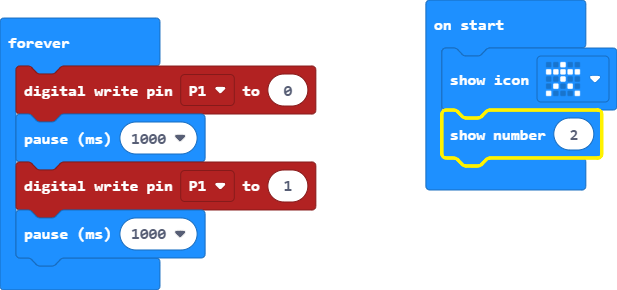
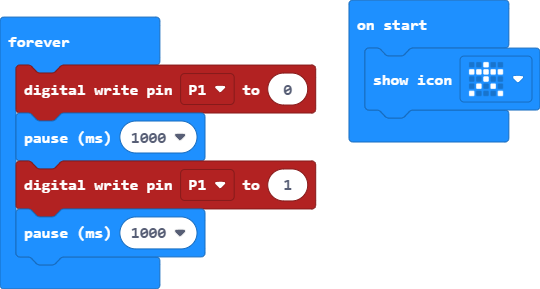
Update main.blocks, main.ts

diff --git a/main.ts b/main.ts
@@ -1,5 +1,4 @@
 basic.showIcon(IconNames.StickFigure)
-basic.showNumber(2)
 basic.forever(function () {
     pins.digitalWritePin(DigitalPin.P1, 0)
     basic.pause(1000)
